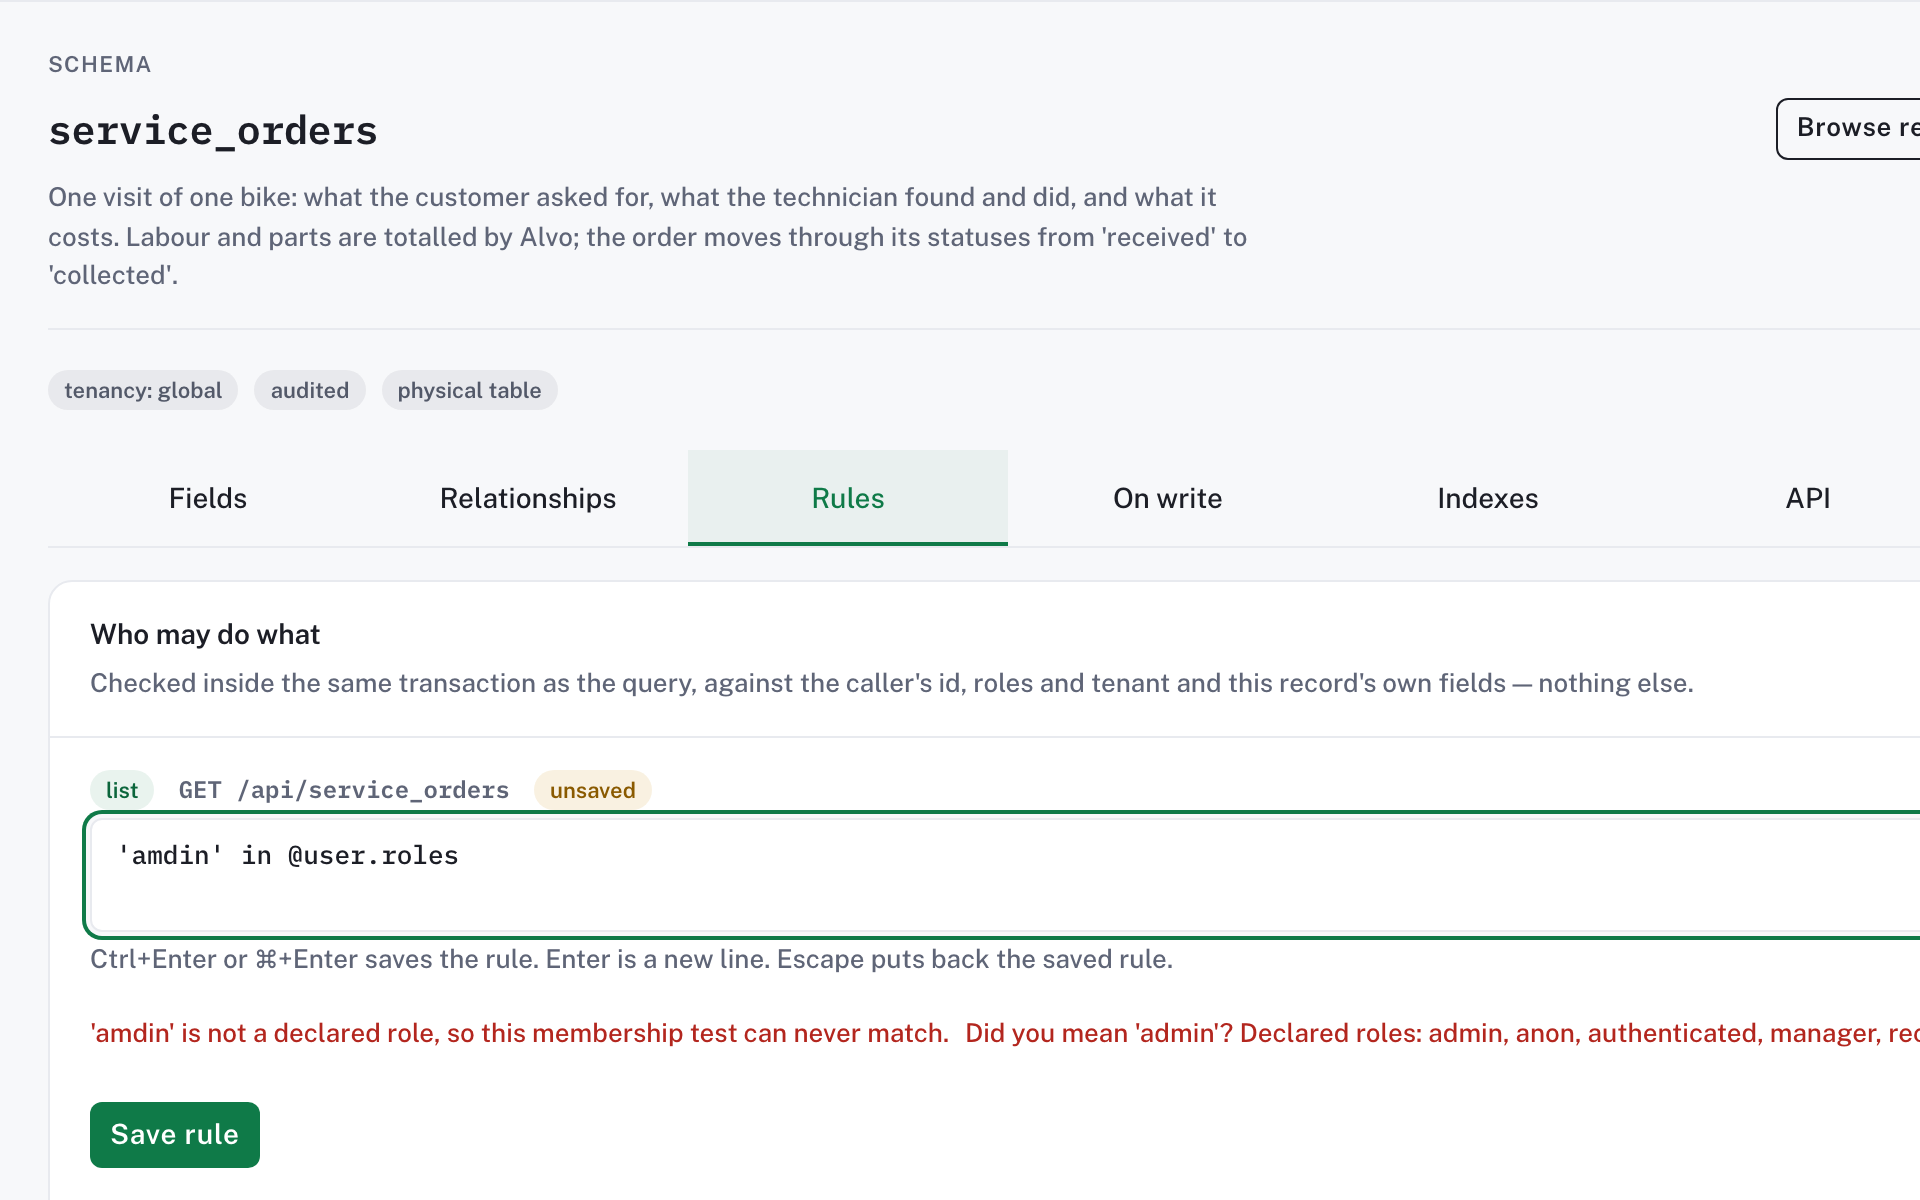
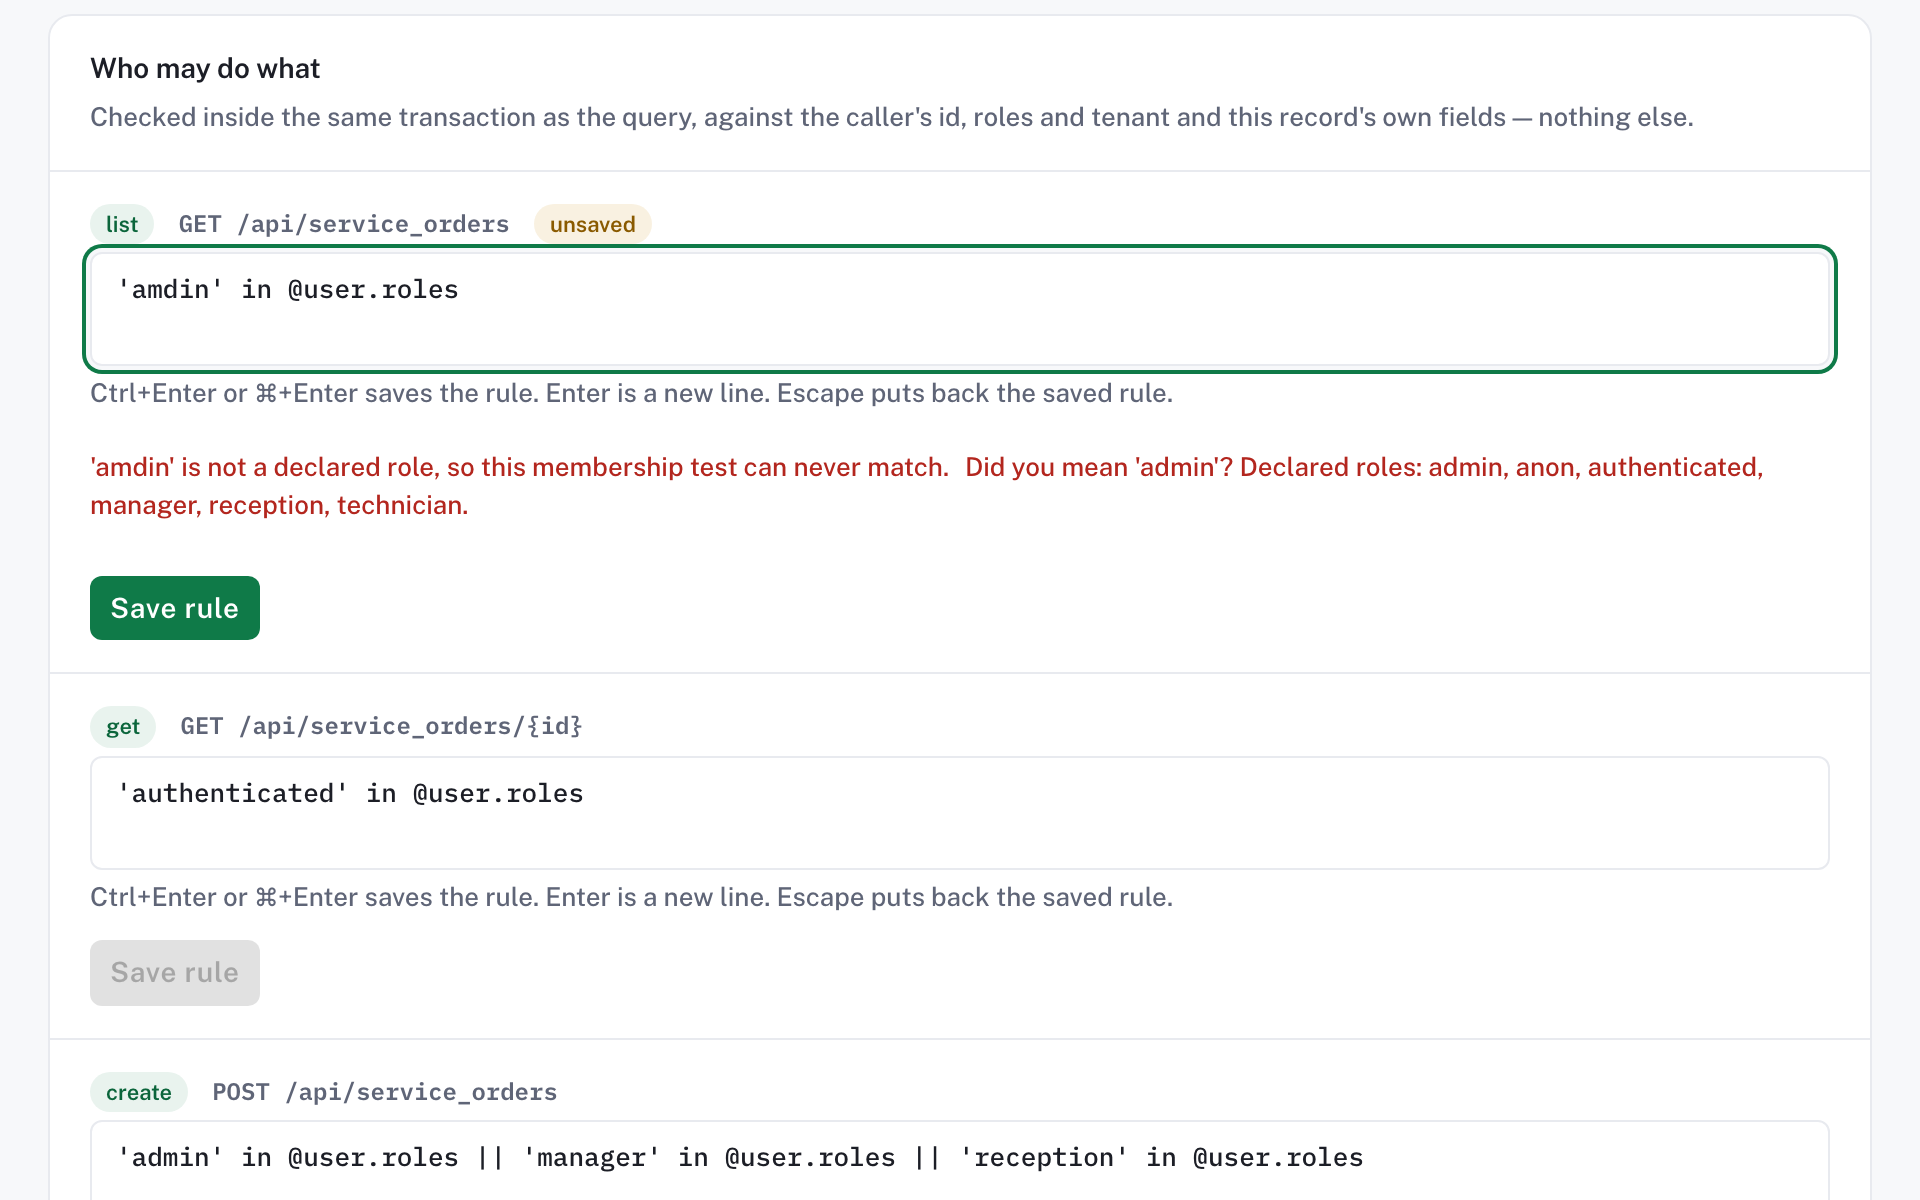
fix(site): balance the hero, a 2x2 proof grid and an unclipped rules-editor crop
- Rules-editor crop: captured at 1200x900 (deviation from the brief's 1440), where
  main.a-content is no wider than the 960px clip, and scrolled to "Who may do
  what" like the phone crop; output stays 1920x1200. The unused data-browser and
  history crops are dropped from the script and website/src/assets.
- Hero: Exchange's compact form writes bodies in flow style (one line, or one
  member per line within 56 characters), drops Content-Type, and takes prose
  requestNote/responseNote labels ("← trimmed by the hook", "← no key:
  anonymous"). The 201 shows title and priority. Right pane 343px vs left 437px;
  the 403 status ends at y=759 on a 1440x900 fold.
- Differentiators: the design's 2x2 grid in DOM order Rules, Hooks, Audit,
  Dynamic, equal-height rows. Hooks: the two-line condition/reject excerpt plus
  the 403 type/detail (request={false}). Audit: "audit": true from
  snippets/landing/history/v1.alvo.json and the rollback request line and status
  from a new captured exchange (landing/rollback: apply v2, then
  POST /management/projects/helpdesk/revisions/1/rollback -> 200).
- Landing exchanges use key id demo and $ALVO_DEMO_KEY_SECRET, so they read like
  the quick start.
- Minor: header gutter = content gutter (--alvo-gutter); the clone chip ends in an
  ellipsis (copy still copies the full line); "Docker and git are all you need";
  the phone menu button turns into a close icon while the sheet is open. The
[…]

diff --git a/website/src/components/landing/landing.css b/website/src/components/landing/landing.css
@@ -157,13 +157,13 @@ main:has(.alvo-landing) .content-panel > .sl-container > footer { display: none;
 .alvo-clone__box code {
   flex: 1;
   min-width: 0;
-  overflow-x: auto;
+  overflow: hidden;
+  text-overflow: ellipsis;
   white-space: nowrap;
   padding: 0;
   background: transparent;
   font: inherit;
   color: var(--text);
-  scrollbar-width: none;
 }
 .alvo-clone__prompt { color: var(--faint); }
 .alvo-copy {
@@ -217,7 +217,20 @@ main:has(.alvo-landing) .content-panel > .sl-container > footer { display: none;
   padding-top: 16px;
   border-top: 1px dashed var(--alvo-code-border);
 }
-.alvo-exchange--compact .alvo-exchange__status { margin: 8px 0 6px; }
+.alvo-exchange--compact .alvo-exchange__status {
+  display: flex;
+  flex-wrap: wrap;
+  align-items: center;
+  gap: 4px 10px;
+  margin: 8px 0 6px;
+}
+.alvo-exchange__request { position: relative; }
+.alvo-exchange__note {
+  font-family: var(--font-ibm-plex-mono);
+  font-size: 13px;
+  color: var(--faint);
+}
+.alvo-exchange__note--request { position: absolute; top: 0; right: 0; line-height: 1.55; }
 .alvo-exchange--compact .alvo-status { font-size: 13px; }
 
 /* The descriptor → API connector: the seam between the panes, an accent line that sweeps once. */
@@ -331,8 +344,7 @@ main:has(.alvo-landing) .content-panel > .sl-container > footer { display: none;
 .alvo-diff { padding-block: 88px 24px; }
 .alvo-diff > .alvo-wrap > h2 { max-width: 760px; margin-bottom: 12px; }
 .alvo-diff .alvo-lede { max-width: 640px; margin-bottom: 36px; }
-.alvo-diff__grid { display: grid; grid-template-columns: repeat(2, minmax(0, 1fr)); gap: 20px; align-items: start; }
-.alvo-diff__col { display: grid; gap: 20px; min-width: 0; }
+.alvo-diff__grid { display: grid; grid-template-columns: repeat(2, minmax(0, 1fr)); gap: 20px; }
 .alvo-card {
   min-width: 0;
   display: flex;
@@ -361,14 +373,25 @@ main:has(.alvo-landing) .content-panel > .sl-container > footer { display: none;
 .alvo-proofbox > * + * { border-top: 1px dashed var(--alvo-code-border); }
 .alvo-proofbox__caption { font-size: 13px; color: var(--faint); font-family: var(--font-ibm-plex-mono); }
 .alvo-proofbox .alvo-exchange--compact .alvo-exchange__status { margin: 8px 0; }
-.alvo-shot-card {
-  margin-top: 6px;
-  border: 1px solid var(--border2);
-  border-radius: var(--radius-sm);
-  overflow: hidden;
-  aspect-ratio: 960 / 300;
+.alvo-proofline {
+  display: flex;
+  flex-wrap: wrap;
+  align-items: center;
+  justify-content: space-between;
+  gap: 8px 12px;
 }
-.alvo-shot-card img { display: block; width: 100%; height: 100%; object-fit: cover; object-position: top left; }
+.alvo-proofline code {
+  min-width: 0;
+  padding: 0;
+  background: transparent;
+  font-family: var(--font-ibm-plex-mono);
+  font-size: 13px;
+  line-height: 1.55;
+  color: var(--text);
+  overflow-wrap: anywhere;
+}
+.alvo-proofline__verb { color: var(--accentInk); font-weight: 600; }
+.alvo-proofline .alvo-status { font-size: 13px; }
 
 /* Two ways to run it. */
 .alvo-ways { padding-block: 72px 88px; }
@@ -516,7 +539,8 @@ main:has(.alvo-landing) .content-panel > .sl-container > footer { display: none;
   .alvo-diff__grid { grid-template-columns: minmax(0, 1fr); }
   .alvo-proof { justify-content: flex-start; }
   .alvo-proof .alvo-proof__sep { display: none; }
-  .alvo-pane__note { display: none; }
+  .alvo-pane__note,
+  .alvo-exchange__note--request { display: none; }
   .alvo-how__grid, .alvo-dash .alvo-wrap { padding-block: 56px; }
   .alvo-diff, .alvo-agent { padding-block: 64px 24px; }
   .alvo-ways { padding-block: 48px 64px; }

diff --git a/website/src/lib/exchanges.ts b/website/src/lib/exchanges.ts
@@ -28,3 +28,17 @@ export function requestLine(name: string, step: number): { method: string; targe
   const [method, target] = capturedStep(name, step).httpRequest.split('\n')[0].split(' ');
   return { method, target };
 }
+
+/** The narrowest line the landing panes hold without scrolling (13px mono in a half-width pane at 1024). */
+export const FlowLineWidth = 56;
+
+/**
+ * A JSON value in flow style, as the design draws a body: one line when it fits, else one member per line
+ * (`{"type":"…",` / ` "detail":"…"}`). Only line breaks change; the values are the captured ones.
+ */
+export function flowJson(value: unknown): string {
+  const line = JSON.stringify(value);
+  if (line.length <= FlowLineWidth || value === null || typeof value !== 'object' || Array.isArray(value)) return line;
+  const members = Object.entries(value as Record<string, unknown>).map(([key, member]) => `${JSON.stringify(key)}:${JSON.stringify(member)}`);
+  return `{${members.join(',\n ')}}`;
+}

diff --git a/website/src/styles/theme.css b/website/src/styles/theme.css
@@ -48,7 +48,7 @@
 
 @media (min-width: 50em) {
   :root {
-    --sl-nav-pad-x: clamp(16px, 3vw, 24px);
+    --sl-nav-pad-x: var(--alvo-gutter);
     --sl-text-h1: 2.5rem;
     --sl-text-h2: 1.625rem;
   }

diff --git a/test/MMLib.Alvo.DocsGen.Tests/Exchanges/ExchangeRendererTests.cs b/test/MMLib.Alvo.DocsGen.Tests/Exchanges/ExchangeRendererTests.cs
@@ -66,7 +66,7 @@ public class ExchangeRendererTests
 
         var page = ExchangeRenderer.Render(spec, await ExchangeRunner.RunAsync(spec, host, root, ct));
 
-        page.Content.ShouldNotContain(host.SecretOf("agent"));
-        page.Content.ShouldContain("agent.$ALVO_KEY_SECRET");
+        page.Content.ShouldNotContain(host.SecretOf("demo"));
+        page.Content.ShouldContain("demo.$ALVO_DEMO_KEY_SECRET");
     }
 }
